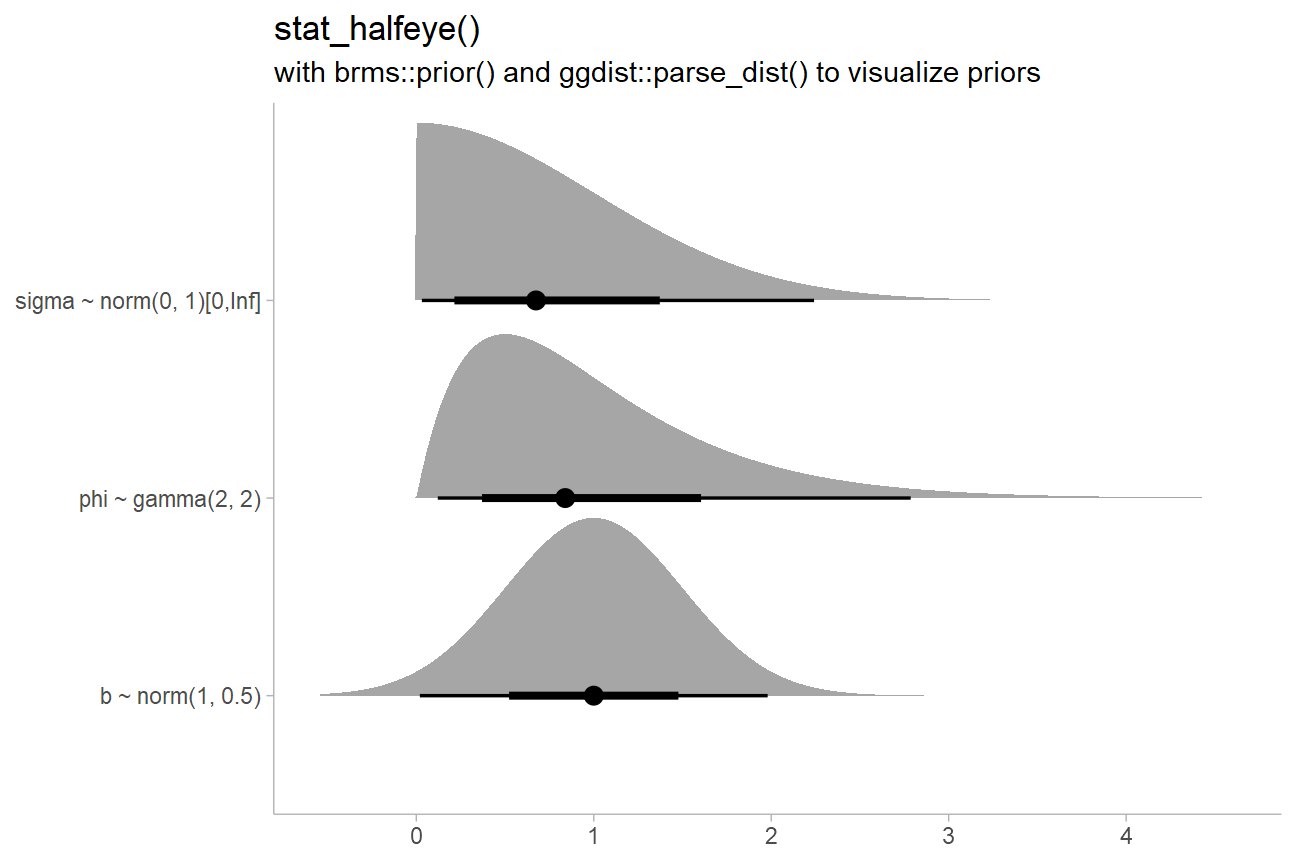
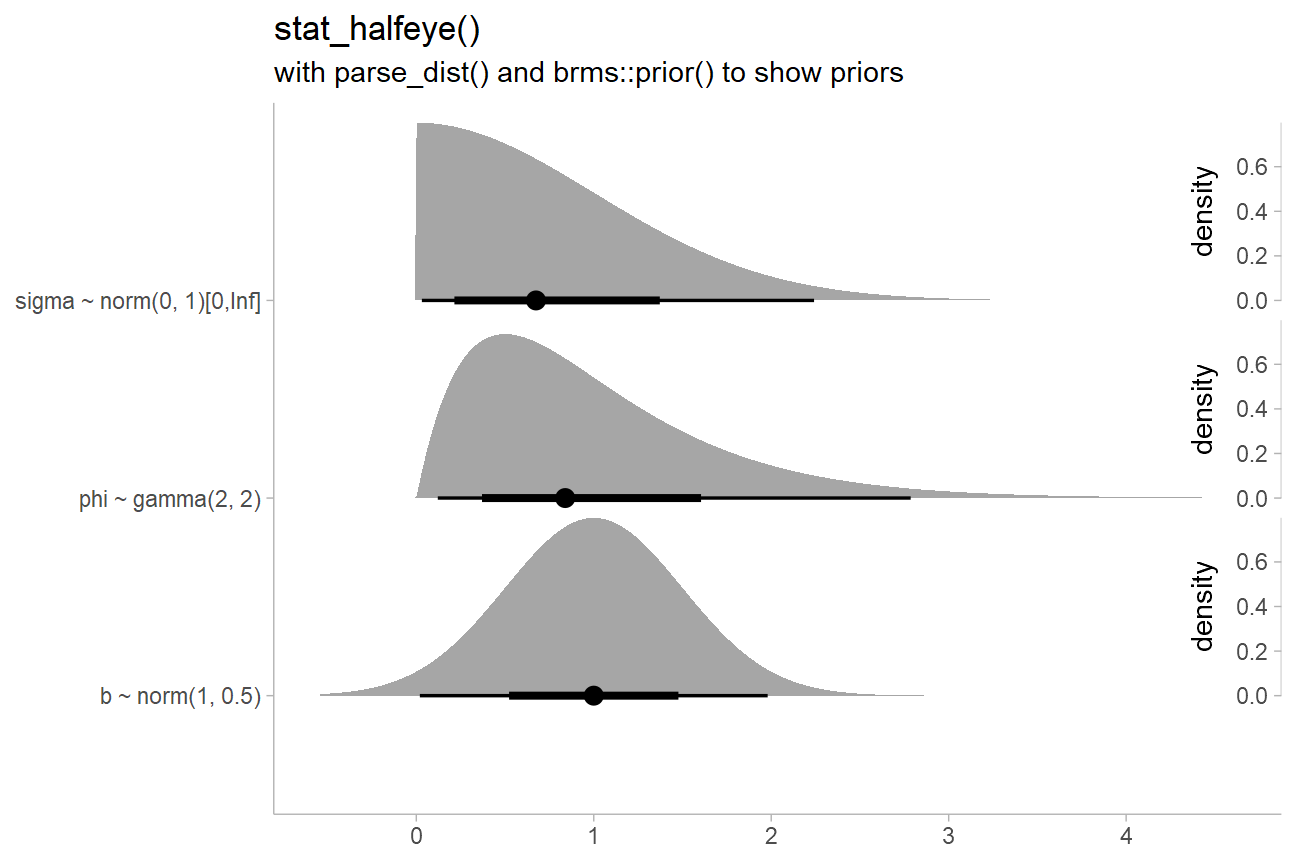
more subguide / thickness docs

diff --git a/docs/articles/slabinterval.html b/docs/articles/slabinterval.html
@@ -47,7 +47,7 @@
       </button>
       <span class="navbar-brand">
         <a class="navbar-link" href="../index.html">ggdist</a>
-        <span class="version label label-default" data-toggle="tooltip" data-placement="bottom" title="">3.3.1</span>
+        <span class="version label label-default" data-toggle="tooltip" data-placement="bottom" title="">3.3.1.9000</span>
       </span>
     </div>
 
@@ -74,6 +74,9 @@
     </li>
     <li>
       <a href="../articles/slabinterval.html">Slab + interval stats and geoms</a>
+    </li>
+    <li>
+      <a href="../articles/thickness.html">Thickness scale</a>
     </li>
   </ul>
 </li>
@@ -105,7 +108,7 @@
                         <h4 data-toc-skip class="author">Matthew
 Kay</h4>
             
-            <h4 data-toc-skip class="date">2023-11-26</h4>
+            <h4 data-toc-skip class="date">2024-01-14</h4>
       
       <small class="dont-index">Source: <a href="https://github.com/mjskay/ggdist/blob/HEAD/vignettes/slabinterval.Rmd" class="external-link"><code>vignettes/slabinterval.Rmd</code></a></small>
       <div class="hidden name"><code>slabinterval.Rmd</code></div>
@@ -176,6 +179,14 @@ of each sub-geometry separately.</p>
 intervals, densities, and cumulative distribution functions, and maps
 these onto endpoints of the interval sub-geometry or the
 <code>thickness</code> of the slab sub-geometry.</p>
+<p>The scaling of slab <code>thickness</code> is determined by a
+combination of the geometry’s <code>height</code>/<code>width</code>,
+its <code>scale</code>, the <code>normalize</code> parameter, and any
+<code>thickness</code> scales added to the plot (such as
+<code><a href="../reference/scale_thickness.html">scale_thickness_shared()</a></code>). For complete details on the
+<code>thickness</code> aesthetic and how to adjust slab scaling, see the
+<a href="https://mjskay.github.io/ggdist/articles/thickness.html" class="external-link">thickness
+article</a>.</p>
 <p>Using <code><a href="../reference/geom_slabinterval.html">geom_slabinterval()</a></code> and
 <code><a href="../reference/stat_slabinterval.html">stat_slabinterval()</a></code> directly is not always advisable: they
 are highly configurable on their own, but this configurability requires
@@ -464,14 +475,21 @@ or <code>ydist</code> aesthetic in ggdist:</p>
 <code class="sourceCode R"><span><span class="va">priors</span> <span class="op"><a href="https://magrittr.tidyverse.org/reference/pipe.html" class="external-link">%&gt;%</a></span></span>
 <span>  <span class="fu"><a href="../reference/parse_dist.html">parse_dist</a></span><span class="op">(</span><span class="va">prior</span><span class="op">)</span> <span class="op"><a href="https://magrittr.tidyverse.org/reference/pipe.html" class="external-link">%&gt;%</a></span></span>
 <span>  <span class="fu"><a href="https://ggplot2.tidyverse.org/reference/ggplot.html" class="external-link">ggplot</a></span><span class="op">(</span><span class="fu"><a href="https://ggplot2.tidyverse.org/reference/aes.html" class="external-link">aes</a></span><span class="op">(</span>y <span class="op">=</span> <span class="fu"><a href="https://rdrr.io/r/base/paste.html" class="external-link">paste</a></span><span class="op">(</span><span class="va">class</span>, <span class="st">"~"</span>, <span class="fu"><a href="https://rdrr.io/r/base/format.html" class="external-link">format</a></span><span class="op">(</span><span class="va">.dist_obj</span><span class="op">)</span><span class="op">)</span>, xdist <span class="op">=</span> <span class="va">.dist_obj</span><span class="op">)</span><span class="op">)</span> <span class="op">+</span></span>
-<span>  <span class="fu"><a href="../reference/stat_halfeye.html">stat_halfeye</a></span><span class="op">(</span><span class="op">)</span> <span class="op">+</span></span>
+<span>  <span class="fu"><a href="../reference/stat_halfeye.html">stat_halfeye</a></span><span class="op">(</span>subguide <span class="op">=</span> <span class="fu"><a href="../reference/subguide_axis.html">subguide_inside</a></span><span class="op">(</span>position <span class="op">=</span> <span class="st">"right"</span>, title <span class="op">=</span> <span class="st">"density"</span><span class="op">)</span><span class="op">)</span> <span class="op">+</span></span>
 <span>  <span class="fu"><a href="https://ggplot2.tidyverse.org/reference/labs.html" class="external-link">labs</a></span><span class="op">(</span></span>
 <span>    title <span class="op">=</span> <span class="st">"stat_halfeye()"</span>,</span>
-<span>    subtitle <span class="op">=</span> <span class="st">"with brms::prior() and ggdist::parse_dist() to visualize priors"</span>,</span>
+<span>    subtitle <span class="op">=</span> <span class="st">"with parse_dist() and brms::prior() to show priors"</span>,</span>
 <span>    x <span class="op">=</span> <span class="cn">NULL</span>,</span>
 <span>    y <span class="op">=</span> <span class="cn">NULL</span></span>
 <span>  <span class="op">)</span></span></code></pre></div>
 <p><img src="slabinterval_files/figure-html/prior_dist_halfeyeh-1.png" width="648"></p>
+<p>This example also demonstrates the use of subguides to label the
+<code>thickness</code> axis. <strong>Note</strong>: subguides are
+currently only available in the development version of ggdist (&gt;
+3.3.1) on Github. For more on subguides, see the documentation for the
+<code><a href="../reference/subguide_axis.html">subguide_axis()</a></code> function, and for more on scaling of the
+<code>thickness</code> aesthetic, see the <a href="https://mjskay.github.io/ggdist/articles/thickness.html" class="external-link">thickness
+article</a>.</p>
 <p>The <code><a href="https://rdrr.io/r/base/format.html" class="external-link">format()</a></code> function in <code>format(.dist_obj)</code>
 generates a string containing a human-readable name for the distribution
 for labeling purposes.</p>
@@ -515,7 +533,9 @@ plot. The difference is illustrated below:</p>
 <span><span class="va">separate_scale_plot</span> <span class="op">+</span> <span class="va">shared_scale_plot</span> <span class="op">+</span> <span class="fu"><a href="https://patchwork.data-imaginist.com/reference/plot_annotation.html" class="external-link">plot_annotation</a></span><span class="op">(</span>title <span class="op">=</span> <span class="st">"prior (slab) + posterior (halfeye)"</span><span class="op">)</span></span></code></pre></div>
 <p><img src="slabinterval_files/figure-html/prior_post-1.png" width="648"></p>
 <p>With <code><a href="../reference/scale_thickness.html">scale_thickness_shared()</a></code> applied, both densities
-have the same area under their curves.</p>
+have the same area under their curves. Futher details of scaling of the
+<code>thickness</code> aesthetic are discussed in the <a href="https://mjskay.github.io/ggdist/articles/thickness.html" class="external-link">thickness
+article</a></p>
 </div>
 <div class="section level3">
 <h3 id="scale-transformations-of-densities">Scale transformations of densities<a class="anchor" aria-label="anchor" href="#scale-transformations-of-densities"></a>
@@ -1077,18 +1097,21 @@ densities:</p>
 <code class="sourceCode R"><span><span class="va">qi_plot_spikes</span> <span class="op">=</span> <span class="fu"><a href="https://rdrr.io/r/base/data.frame.html" class="external-link">data.frame</a></span><span class="op">(</span>dist <span class="op">=</span> <span class="fu"><a href="https://pkg.mitchelloharawild.com/distributional/reference/dist_beta.html" class="external-link">dist_beta</a></span><span class="op">(</span><span class="fl">10</span>, <span class="fl">2</span><span class="op">)</span><span class="op">)</span> <span class="op"><a href="https://magrittr.tidyverse.org/reference/pipe.html" class="external-link">%&gt;%</a></span></span>
 <span>  <span class="fu"><a href="https://ggplot2.tidyverse.org/reference/ggplot.html" class="external-link">ggplot</a></span><span class="op">(</span><span class="fu"><a href="https://ggplot2.tidyverse.org/reference/aes.html" class="external-link">aes</a></span><span class="op">(</span>xdist <span class="op">=</span> <span class="va">dist</span><span class="op">)</span><span class="op">)</span> <span class="op">+</span> </span>
 <span>  <span class="fu"><a href="../reference/stat_slab.html">stat_slab</a></span><span class="op">(</span><span class="fu"><a href="https://ggplot2.tidyverse.org/reference/aes.html" class="external-link">aes</a></span><span class="op">(</span>fill <span class="op">=</span> <span class="fu"><a href="https://ggplot2.tidyverse.org/reference/aes_eval.html" class="external-link">after_stat</a></span><span class="op">(</span><span class="va">level</span><span class="op">)</span><span class="op">)</span>, point_interval <span class="op">=</span> <span class="va">median_qi</span>, .width <span class="op">=</span> <span class="fu"><a href="https://rdrr.io/r/base/c.html" class="external-link">c</a></span><span class="op">(</span><span class="fl">.5</span>, <span class="fl">.95</span><span class="op">)</span><span class="op">)</span> <span class="op">+</span> </span>
-<span>  <span class="fu"><a href="../reference/stat_spike.html">stat_spike</a></span><span class="op">(</span>at <span class="op">=</span> <span class="fu"><a href="https://rdrr.io/r/base/c.html" class="external-link">c</a></span><span class="op">(</span><span class="va">median</span>, <span class="va">qi</span><span class="op">)</span><span class="op">)</span> <span class="op">+</span> </span>
+<span>  <span class="co"># stat_spike(at = c(median, qi)) would also work, but this demonstrates how </span></span>
+<span>  <span class="co"># to re-label the names of the `at` computed variable and use it in an</span></span>
+<span>  <span class="co"># aesthetic mapping by mapping it to `linetype`</span></span>
+<span>  <span class="fu"><a href="../reference/stat_spike.html">stat_spike</a></span><span class="op">(</span><span class="fu"><a href="https://ggplot2.tidyverse.org/reference/aes.html" class="external-link">aes</a></span><span class="op">(</span>linetype <span class="op">=</span> <span class="fu"><a href="https://ggplot2.tidyverse.org/reference/aes_eval.html" class="external-link">after_stat</a></span><span class="op">(</span><span class="va">at</span><span class="op">)</span><span class="op">)</span>, at <span class="op">=</span> <span class="fu"><a href="https://rdrr.io/r/base/c.html" class="external-link">c</a></span><span class="op">(</span><span class="st">"median"</span>, <span class="st">"interval (qi)"</span> <span class="op">=</span> <span class="va">qi</span><span class="op">)</span><span class="op">)</span> <span class="op">+</span> </span>
 <span>  <span class="fu"><a href="https://ggplot2.tidyverse.org/reference/scale_brewer.html" class="external-link">scale_fill_brewer</a></span><span class="op">(</span>na.value <span class="op">=</span> <span class="st">"gray95"</span><span class="op">)</span> <span class="op">+</span></span>
 <span>  <span class="fu"><a href="../reference/scale_thickness.html">scale_thickness_shared</a></span><span class="op">(</span><span class="op">)</span> <span class="op">+</span></span>
 <span>  <span class="fu"><a href="https://ggplot2.tidyverse.org/reference/labs.html" class="external-link">labs</a></span><span class="op">(</span>subtitle <span class="op">=</span> <span class="st">"stat_slab() + stat_spike(at = c(median, qi))"</span><span class="op">)</span></span>
 <span></span>
 <span><span class="va">hdi_plot_spikes</span> <span class="op">=</span> <span class="fu"><a href="https://rdrr.io/r/base/data.frame.html" class="external-link">data.frame</a></span><span class="op">(</span>dist <span class="op">=</span> <span class="fu"><a href="https://pkg.mitchelloharawild.com/distributional/reference/dist_beta.html" class="external-link">dist_beta</a></span><span class="op">(</span><span class="fl">10</span>, <span class="fl">2</span><span class="op">)</span><span class="op">)</span> <span class="op"><a href="https://magrittr.tidyverse.org/reference/pipe.html" class="external-link">%&gt;%</a></span></span>
 <span>  <span class="fu"><a href="https://ggplot2.tidyverse.org/reference/ggplot.html" class="external-link">ggplot</a></span><span class="op">(</span><span class="fu"><a href="https://ggplot2.tidyverse.org/reference/aes.html" class="external-link">aes</a></span><span class="op">(</span>xdist <span class="op">=</span> <span class="va">dist</span><span class="op">)</span><span class="op">)</span> <span class="op">+</span> </span>
-<span>  <span class="fu"><a href="../reference/stat_slab.html">stat_slab</a></span><span class="op">(</span><span class="fu"><a href="https://ggplot2.tidyverse.org/reference/aes.html" class="external-link">aes</a></span><span class="op">(</span>fill <span class="op">=</span> <span class="fu"><a href="https://ggplot2.tidyverse.org/reference/aes_eval.html" class="external-link">after_stat</a></span><span class="op">(</span><span class="va">level</span><span class="op">)</span><span class="op">)</span>, point_interval <span class="op">=</span> <span class="va">mode_hdci</span>, .width <span class="op">=</span> <span class="fu"><a href="https://rdrr.io/r/base/c.html" class="external-link">c</a></span><span class="op">(</span><span class="fl">.5</span>, <span class="fl">.95</span><span class="op">)</span><span class="op">)</span> <span class="op">+</span> </span>
-<span>  <span class="fu"><a href="../reference/stat_spike.html">stat_spike</a></span><span class="op">(</span>at <span class="op">=</span> <span class="fu"><a href="https://rdrr.io/r/base/c.html" class="external-link">c</a></span><span class="op">(</span><span class="va">Mode</span>, <span class="va">hdci</span><span class="op">)</span><span class="op">)</span> <span class="op">+</span></span>
+<span>  <span class="fu"><a href="../reference/stat_slab.html">stat_slab</a></span><span class="op">(</span><span class="fu"><a href="https://ggplot2.tidyverse.org/reference/aes.html" class="external-link">aes</a></span><span class="op">(</span>fill <span class="op">=</span> <span class="fu"><a href="https://ggplot2.tidyverse.org/reference/aes_eval.html" class="external-link">after_stat</a></span><span class="op">(</span><span class="va">level</span><span class="op">)</span><span class="op">)</span>, point_interval <span class="op">=</span> <span class="va">mode_hdi</span>, .width <span class="op">=</span> <span class="fu"><a href="https://rdrr.io/r/base/c.html" class="external-link">c</a></span><span class="op">(</span><span class="fl">.5</span>, <span class="fl">.95</span><span class="op">)</span><span class="op">)</span> <span class="op">+</span> </span>
+<span>  <span class="fu"><a href="../reference/stat_spike.html">stat_spike</a></span><span class="op">(</span><span class="fu"><a href="https://ggplot2.tidyverse.org/reference/aes.html" class="external-link">aes</a></span><span class="op">(</span>linetype <span class="op">=</span> <span class="fu"><a href="https://ggplot2.tidyverse.org/reference/aes_eval.html" class="external-link">after_stat</a></span><span class="op">(</span><span class="va">at</span><span class="op">)</span><span class="op">)</span>, at <span class="op">=</span> <span class="fu"><a href="https://rdrr.io/r/base/c.html" class="external-link">c</a></span><span class="op">(</span><span class="st">"mode"</span> <span class="op">=</span> <span class="va">Mode</span>, <span class="st">"interval (hdi)"</span> <span class="op">=</span> <span class="va">hdi</span><span class="op">)</span><span class="op">)</span> <span class="op">+</span></span>
 <span>  <span class="fu"><a href="https://ggplot2.tidyverse.org/reference/scale_brewer.html" class="external-link">scale_fill_brewer</a></span><span class="op">(</span>na.value <span class="op">=</span> <span class="st">"gray95"</span><span class="op">)</span> <span class="op">+</span></span>
 <span>  <span class="fu"><a href="../reference/scale_thickness.html">scale_thickness_shared</a></span><span class="op">(</span><span class="op">)</span> <span class="op">+</span></span>
-<span>  <span class="fu"><a href="https://ggplot2.tidyverse.org/reference/labs.html" class="external-link">labs</a></span><span class="op">(</span>subtitle <span class="op">=</span> <span class="st">"stat_slab() + stat_spike(at = c(Mode, hdci))"</span><span class="op">)</span></span>
+<span>  <span class="fu"><a href="https://ggplot2.tidyverse.org/reference/labs.html" class="external-link">labs</a></span><span class="op">(</span>subtitle <span class="op">=</span> <span class="st">"stat_slab() + stat_spike(at = c(Mode, hdi))"</span><span class="op">)</span></span>
 <span></span>
 <span><span class="va">qi_plot_spikes</span> <span class="op">/</span></span>
 <span>  <span class="va">hdi_plot_spikes</span></span></code></pre></div>

diff --git a/docs/articles/dotsinterval.html b/docs/articles/dotsinterval.html
@@ -47,7 +47,7 @@
       </button>
       <span class="navbar-brand">
         <a class="navbar-link" href="../index.html">ggdist</a>
-        <span class="version label label-default" data-toggle="tooltip" data-placement="bottom" title="">3.3.1</span>
+        <span class="version label label-default" data-toggle="tooltip" data-placement="bottom" title="">3.3.1.9000</span>
       </span>
     </div>
 
@@ -74,6 +74,9 @@
     </li>
     <li>
       <a href="../articles/slabinterval.html">Slab + interval stats and geoms</a>
+    </li>
+    <li>
+      <a href="../articles/thickness.html">Thickness scale</a>
     </li>
   </ul>
 </li>
@@ -105,7 +108,7 @@
                         <h4 data-toc-skip class="author">Matthew
 Kay</h4>
             
-            <h4 data-toc-skip class="date">2023-11-26</h4>
+            <h4 data-toc-skip class="date">2024-01-14</h4>
       
       <small class="dont-index">Source: <a href="https://github.com/mjskay/ggdist/blob/HEAD/vignettes/dotsinterval.Rmd" class="external-link"><code>vignettes/dotsinterval.Rmd</code></a></small>
       <div class="hidden name"><code>dotsinterval.Rmd</code></div>
@@ -737,12 +740,18 @@ functions such as <code><a href="https://pkg.mitchelloharawild.com/distributiona
 <span></span>
 <span><span class="va">dist_df</span> <span class="op"><a href="https://magrittr.tidyverse.org/reference/pipe.html" class="external-link">%&gt;%</a></span></span>
 <span>  <span class="fu"><a href="https://ggplot2.tidyverse.org/reference/ggplot.html" class="external-link">ggplot</a></span><span class="op">(</span><span class="fu"><a href="https://ggplot2.tidyverse.org/reference/aes.html" class="external-link">aes</a></span><span class="op">(</span>y <span class="op">=</span> <span class="va">dist_name</span>, xdist <span class="op">=</span> <span class="va">dist</span><span class="op">)</span><span class="op">)</span> <span class="op">+</span></span>
-<span>  <span class="fu"><a href="../reference/stat_dotsinterval.html">stat_dotsinterval</a></span><span class="op">(</span><span class="op">)</span> <span class="op">+</span></span>
+<span>  <span class="fu"><a href="../reference/stat_dotsinterval.html">stat_dotsinterval</a></span><span class="op">(</span>subguide <span class="op">=</span> <span class="st">'integer'</span><span class="op">)</span> <span class="op">+</span></span>
 <span>  <span class="fu"><a href="https://ggplot2.tidyverse.org/reference/labs.html" class="external-link">ggtitle</a></span><span class="op">(</span></span>
-<span>    <span class="st">"stat_dotsinterval()"</span>,</span>
+<span>    <span class="st">"stat_dotsinterval(subguide = 'integer')"</span>,</span>
 <span>    <span class="st">"aes(y = dist_name, xdist = dist)"</span></span>
 <span>  <span class="op">)</span></span></code></pre></div>
 <p><img src="dotsinterval_files/figure-html/dotsinterval_dist-1.png" width="648"></p>
+<p>This example also shows the use of sub-guides to label dot counts.
+See the documentation of <code><a href="../reference/subguide_axis.html">subguide_axis()</a></code> and its shortcuts
+(particularly <code><a href="../reference/subguide_axis.html">subguide_integer()</a></code> and
+<code><a href="../reference/subguide_axis.html">subguide_count()</a></code>) for more examples. <strong>Note</strong>:
+subguides are currently only available in the development version of
+ggdist (&gt; 3.3.1) on Github.</p>
 <p>Analytical distributions are shown by default using 100 quantiles,
 sometimes referred to as a <em>quantile dotplot</em>, which can help
 people make better decisions under uncertainty (<a href="https://doi.org/10.1145/2858036.2858558" class="external-link">Kay 2016</a>, <a href="https://doi.org/10.1145/3173574.3173718" class="external-link">Fernandes 2018</a>). This
@@ -763,7 +772,7 @@ layout):</p>
 <code class="sourceCode R"><span><span class="va">dist_df</span> <span class="op"><a href="https://magrittr.tidyverse.org/reference/pipe.html" class="external-link">%&gt;%</a></span></span>
 <span>  <span class="fu"><a href="https://ggplot2.tidyverse.org/reference/ggplot.html" class="external-link">ggplot</a></span><span class="op">(</span><span class="fu"><a href="https://ggplot2.tidyverse.org/reference/aes.html" class="external-link">aes</a></span><span class="op">(</span>y <span class="op">=</span> <span class="va">dist_name</span>, xdist <span class="op">=</span> <span class="va">dist</span>, slab_fill <span class="op">=</span> <span class="fu"><a href="https://ggplot2.tidyverse.org/reference/aes_eval.html" class="external-link">after_stat</a></span><span class="op">(</span><span class="va">level</span><span class="op">)</span><span class="op">)</span><span class="op">)</span> <span class="op">+</span></span>
 <span>  <span class="fu"><a href="../reference/stat_dotsinterval.html">stat_dotsinterval</a></span><span class="op">(</span>quantiles <span class="op">=</span> <span class="fl">1000</span>, point_interval <span class="op">=</span> <span class="va">mode_hdci</span>, layout <span class="op">=</span> <span class="st">"weave"</span>, slab_color <span class="op">=</span> <span class="cn">NA</span><span class="op">)</span> <span class="op">+</span></span>
-<span>  <span class="fu"><a href="https://ggplot2.tidyverse.org/reference/scale_manual.html" class="external-link">scale_color_manual</a></span><span class="op">(</span>values <span class="op">=</span> <span class="fu">scales</span><span class="fu">::</span><span class="fu"><a href="https://scales.r-lib.org/reference/brewer_pal.html" class="external-link">brewer_pal</a></span><span class="op">(</span><span class="op">)</span><span class="op">(</span><span class="fl">3</span><span class="op">)</span><span class="op">[</span><span class="op">-</span><span class="fl">1</span><span class="op">]</span>, aesthetics <span class="op">=</span> <span class="st">"slab_fill"</span><span class="op">)</span> <span class="op">+</span></span>
+<span>  <span class="fu"><a href="https://ggplot2.tidyverse.org/reference/scale_manual.html" class="external-link">scale_color_manual</a></span><span class="op">(</span>values <span class="op">=</span> <span class="fu">scales</span><span class="fu">::</span><span class="fu"><a href="https://scales.r-lib.org/reference/pal_brewer.html" class="external-link">brewer_pal</a></span><span class="op">(</span><span class="op">)</span><span class="op">(</span><span class="fl">3</span><span class="op">)</span><span class="op">[</span><span class="op">-</span><span class="fl">1</span><span class="op">]</span>, aesthetics <span class="op">=</span> <span class="st">"slab_fill"</span><span class="op">)</span> <span class="op">+</span></span>
 <span>  <span class="fu"><a href="https://ggplot2.tidyverse.org/reference/labs.html" class="external-link">ggtitle</a></span><span class="op">(</span></span>
 <span>    <span class="st">"stat_dotsinterval(quantiles = 1000, point_interval = mode_hdci)"</span>,</span>
 <span>    <span class="st">"aes(y = dist_name, xdist = dist, slab_fill = after_stat(level))"</span></span>

diff --git a/docs/articles/lineribbon.html b/docs/articles/lineribbon.html
@@ -47,7 +47,7 @@
       </button>
       <span class="navbar-brand">
         <a class="navbar-link" href="../index.html">ggdist</a>
-        <span class="version label label-default" data-toggle="tooltip" data-placement="bottom" title="">3.3.1</span>
+        <span class="version label label-default" data-toggle="tooltip" data-placement="bottom" title="">3.3.1.9000</span>
       </span>
     </div>
 
@@ -74,6 +74,9 @@
     </li>
     <li>
       <a href="../articles/slabinterval.html">Slab + interval stats and geoms</a>
+    </li>
+    <li>
+      <a href="../articles/thickness.html">Thickness scale</a>
     </li>
   </ul>
 </li>
@@ -105,7 +108,7 @@
                         <h4 data-toc-skip class="author">Matthew
 Kay</h4>
             
-            <h4 data-toc-skip class="date">2023-11-26</h4>
+            <h4 data-toc-skip class="date">2024-01-14</h4>
       
       <small class="dont-index">Source: <a href="https://github.com/mjskay/ggdist/blob/HEAD/vignettes/lineribbon.Rmd" class="external-link"><code>vignettes/lineribbon.Rmd</code></a></small>
       <div class="hidden name"><code>lineribbon.Rmd</code></div>
@@ -223,7 +226,7 @@ subsample of 100 of the lines:</p>
 <code class="sourceCode R"><span><span class="va">df</span> <span class="op"><a href="https://magrittr.tidyverse.org/reference/pipe.html" class="external-link">%&gt;%</a></span></span>
 <span>  <span class="fu"><a href="https://dplyr.tidyverse.org/reference/group_by.html" class="external-link">group_by</a></span><span class="op">(</span><span class="va">x</span><span class="op">)</span> <span class="op"><a href="https://magrittr.tidyverse.org/reference/pipe.html" class="external-link">%&gt;%</a></span></span>
 <span>  <span class="fu"><a href="../reference/point_interval.html">median_qi</a></span><span class="op">(</span><span class="va">y</span><span class="op">)</span></span></code></pre></div>
-<pre><code><span><span class="co">## <span style="color: #949494;"># A tibble: 10 × 7</span></span></span>
+<pre><code><span><span class="co">## <span style="color: #949494;"># A tibble: 10 × 7</span></span>m</span>
 <span><span class="co">##        x       y    .lower .upper .width .point .interval</span></span>
 <span><span class="co">##    <span style="color: #949494; font-style: italic;">&lt;int&gt;</span>   <span style="color: #949494; font-style: italic;">&lt;dbl&gt;</span>     <span style="color: #949494; font-style: italic;">&lt;dbl&gt;</span>  <span style="color: #949494; font-style: italic;">&lt;dbl&gt;</span>  <span style="color: #949494; font-style: italic;">&lt;dbl&gt;</span> <span style="color: #949494; font-style: italic;">&lt;chr&gt;</span>  <span style="color: #949494; font-style: italic;">&lt;chr&gt;</span>    </span></span>
 <span><span class="co">## <span style="color: #BCBCBC;"> 1</span>    -<span style="color: #BB0000;">4</span> -<span style="color: #BB0000;">1.01</span>   -<span style="color: #BB0000;">3.71</span>       1.61   0.95 median qi       </span></span>
@@ -484,7 +487,7 @@ deviation <code>y_sd</code>:</p>
 <span>  y_sd <span class="op">=</span> <span class="fu"><a href="https://rdrr.io/r/base/MathFun.html" class="external-link">sqrt</a></span><span class="op">(</span><span class="va">x</span><span class="op">^</span><span class="fl">2</span><span class="op">/</span><span class="fl">10</span> <span class="op">+</span> <span class="fl">1</span><span class="op">)</span>,</span>
 <span><span class="op">)</span></span>
 <span><span class="va">analytical_df</span></span></code></pre></div>
-<pre><code><span><span class="co">## <span style="color: #949494;"># A tibble: 10 × 3</span></span></span>
+<pre><code><span><span class="co">## <span style="color: #949494;"># A tibble: 10 × 3</span></span>m</span>
 <span><span class="co">##        x y_mean  y_sd</span></span>
 <span><span class="co">##    <span style="color: #949494; font-style: italic;">&lt;int&gt;</span>  <span style="color: #949494; font-style: italic;">&lt;dbl&gt;</span> <span style="color: #949494; font-style: italic;">&lt;dbl&gt;</span></span></span>
 <span><span class="co">## <span style="color: #BCBCBC;"> 1</span>    -<span style="color: #BB0000;">4</span>     -<span style="color: #BB0000;">1</span>  1.61</span></span>

diff --git a/docs/articles/freq-uncertainty-vis.html b/docs/articles/freq-uncertainty-vis.html
@@ -47,7 +47,7 @@
       </button>
       <span class="navbar-brand">
         <a class="navbar-link" href="../index.html">ggdist</a>
-        <span class="version label label-default" data-toggle="tooltip" data-placement="bottom" title="">3.3.1</span>
+        <span class="version label label-default" data-toggle="tooltip" data-placement="bottom" title="">3.3.1.9000</span>
       </span>
     </div>
 
@@ -74,6 +74,9 @@
     </li>
     <li>
       <a href="../articles/slabinterval.html">Slab + interval stats and geoms</a>
+    </li>
+    <li>
+      <a href="../articles/thickness.html">Thickness scale</a>
     </li>
   </ul>
 </li>
@@ -105,7 +108,7 @@
                         <h4 data-toc-skip class="author">Matthew
 Kay</h4>
             
-            <h4 data-toc-skip class="date">2023-11-26</h4>
+            <h4 data-toc-skip class="date">2024-01-14</h4>
       
       <small class="dont-index">Source: <a href="https://github.com/mjskay/ggdist/blob/HEAD/vignettes/freq-uncertainty-vis.Rmd" class="external-link"><code>vignettes/freq-uncertainty-vis.Rmd</code></a></small>
       <div class="hidden name"><code>freq-uncertainty-vis.Rmd</code></div>
@@ -243,7 +246,7 @@ column from <code><a href="https://generics.r-lib.org/reference/tidy.html" class
 <code><a href="https://generics.r-lib.org/reference/tidy.html" class="external-link">broom::tidy()</a></code>:</p>
 <div class="sourceCode" id="cb7"><pre class="downlit sourceCode r">
 <code class="sourceCode R"><span><span class="fu"><a href="https://generics.r-lib.org/reference/tidy.html" class="external-link">tidy</a></span><span class="op">(</span><span class="va">m_ABC</span><span class="op">)</span></span></code></pre></div>
-<pre><code><span><span class="co">## <span style="color: #949494;"># A tibble: 5 × 5</span></span></span>
+<pre><code><span><span class="co">## <span style="color: #949494;"># A tibble: 5 × 5</span></span>m</span>
 <span><span class="co">##   term        estimate std.error statistic      p.value</span></span>
 <span><span class="co">##   <span style="color: #949494; font-style: italic;">&lt;chr&gt;</span>          <span style="color: #949494; font-style: italic;">&lt;dbl&gt;</span>     <span style="color: #949494; font-style: italic;">&lt;dbl&gt;</span>     <span style="color: #949494; font-style: italic;">&lt;dbl&gt;</span>        <span style="color: #949494; font-style: italic;">&lt;dbl&gt;</span></span></span>
 <span><span class="co">## <span style="color: #BCBCBC;">1</span> (Intercept)    0.182     0.173      1.05 0.300       </span></span>
@@ -268,7 +271,7 @@ supports these objects.</p>
 instead use <code><a href="https://modelr.tidyverse.org/reference/data_grid.html" class="external-link">modelr::data_grid()</a></code> along with
 <code><a href="https://generics.r-lib.org/reference/augment.html" class="external-link">broom::augment()</a></code> (similar to how we can use
 <code><a href="https://modelr.tidyverse.org/reference/data_grid.html" class="external-link">modelr::data_grid()</a></code> with
-<code>tidybayes::add_fitted_draws()</code> for Bayesian models). Here we
+<code><a href="http://mjskay.github.io/tidybayes/reference/tidybayes-deprecated.html" class="external-link">tidybayes::add_fitted_draws()</a></code> for Bayesian models). Here we
 want the confidence distribution for the mean in condition <span class="math inline">\(c\)</span>, <span class="math inline">\(\tilde\mu_c\)</span>:</p>
 <p><span class="math display">\[
 \tilde\mu_c \sim \textrm{student_t}\left(\nu, \hat\mu_c,

diff --git a/docs/articles/thickness.html b/docs/articles/thickness.html
@@ -132,6 +132,9 @@ img {
 used by the slab+interval family of geoms and stats in
 <code>ggdist</code> (see <code><a href="../articles/slabinterval.html">vignette("slabinterval")</a></code> for more
 on that family).</p>
+<p><strong>Note</strong>: this article makes use of ggdist subguides for
+labeling purposes, which are currently only available in the development
+version of ggdist (&gt; 3.3.1) on Github.</p>
 </div>
 <div class="section level2">
 <h2 id="setup">Setup<a class="anchor" aria-label="anchor" href="#setup"></a>
